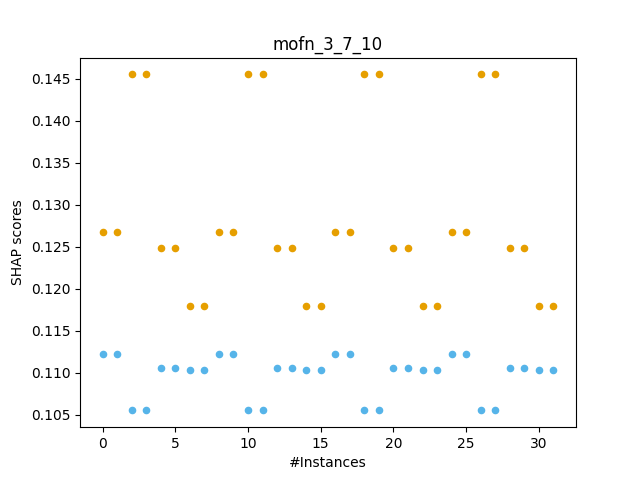
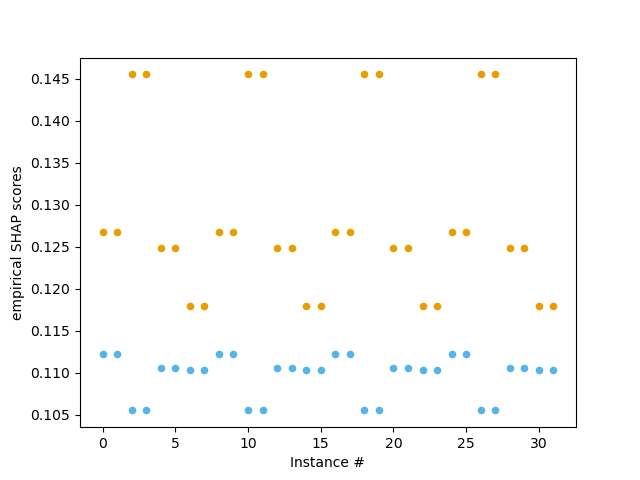
update

diff --git a/Irr-Rel-SHAP.py b/Irr-Rel-SHAP.py
@@ -24,7 +24,9 @@ def plot_max_irr_min_rel(data, col_names, fig_title, filename, score_type="lundb
     ax1 = df.plot.scatter(x=col_names[0], y=col_names[1], color="#E69F00")
     ax2 = df.plot.scatter(x=col_names[0], y=col_names[2], color="#56B4E9", ax=ax1)
     ax2.set_xlabel("Instance #")
-    ax2.set_ylabel("SHAP scores" if score_type == "lundberg" else "exact SHAP scores")  # SHAP or exact SHAP
+    # we refer to empirical SHAP scores as the scores computed by lundberg's SHAP tool
+    # while the exact SHAP scores are computed by using Barcelo's algorithm
+    ax2.set_ylabel("empirical SHAP scores" if score_type == "lundberg" else "exact SHAP scores")
     # plt.title(fig_title)
     plt.savefig(filename)
     plt.clf()
@@ -38,7 +40,9 @@ def plot_irr_rel_summary(data, len_X, fig_title, filename, score_type="lundberg"
     plt.annotate(f'{data[0]}', xy=(0, data[0]), ha='center', va='bottom')
     plt.annotate(f'{data[1]}', xy=(1, data[1]), ha='center', va='bottom')
     plt.ylabel('# Instances')
-    plt.xlabel('SHAP scores' if score_type == "lundberg" else 'exact SHAP scores')  # SHAP or exact SHAP
+    # we refer to empirical SHAP scores as the scores computed by lundberg's SHAP tool
+    # while the exact SHAP scores are computed by using Barcelo's algorithm
+    plt.xlabel('empirical SHAP scores' if score_type == "lundberg" else 'exact SHAP scores')
     # plt.title(fig_title)
     plt.savefig(filename)
     plt.clf()
